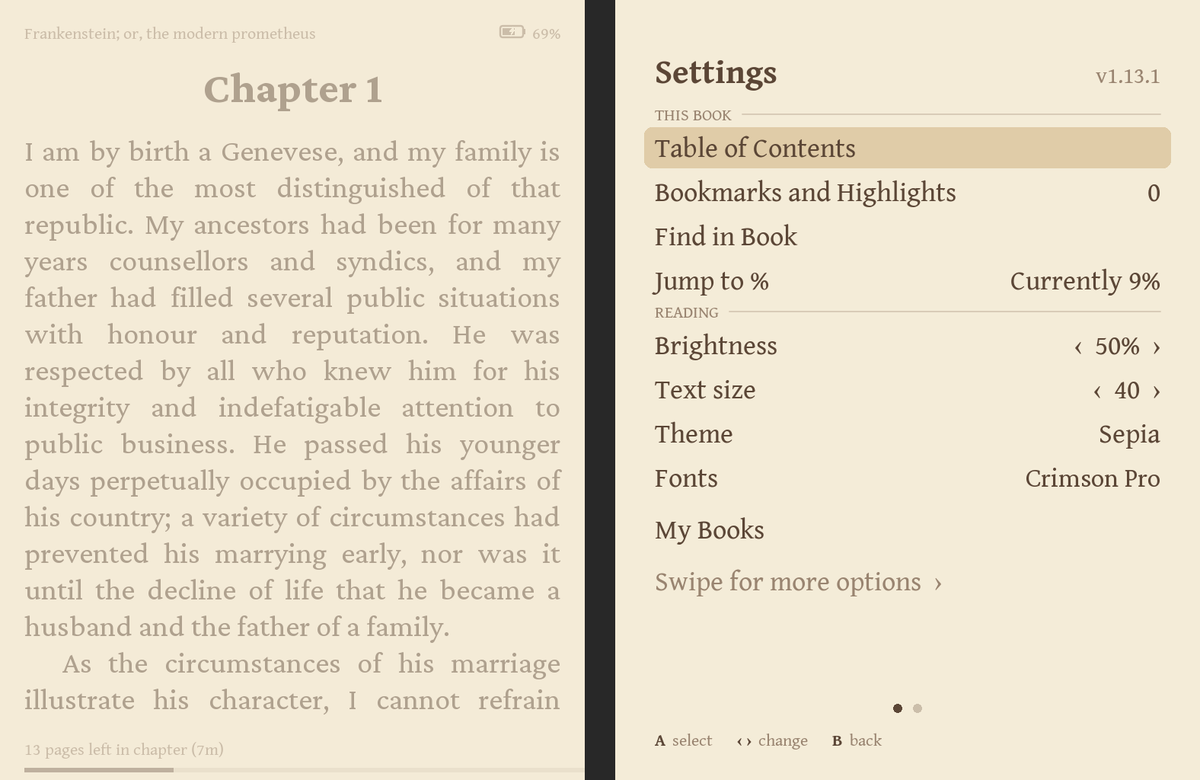
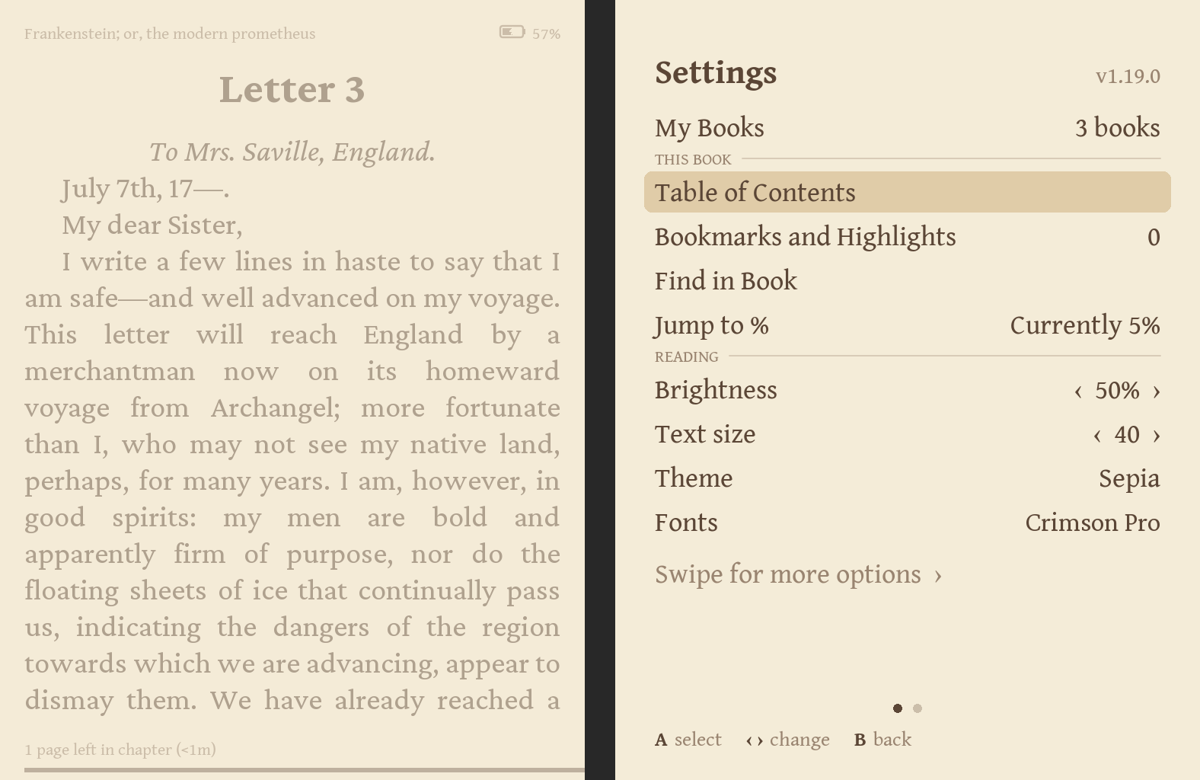
README screenshots retaken for v1.19.0 (My Books, Settings, Themes with the grey page and filters, look-up with a highlight and its buttons); test hook 'covers' waits for covers to load

diff --git a/README.md b/README.md
@@ -294,7 +294,7 @@ last row. Tap **‹** or **›** to change a value, or use the D-pad.
 
 | Settings | Themes |
 |---|---|
-| ![Settings](docs/screenshots/settings.png) | ![Themes, previewing Nord](docs/screenshots/themes.png) |
+| ![Settings](docs/screenshots/settings.png) | ![Themes, previewing Nord, with one of your own tagged Custom](docs/screenshots/themes.png) |
 
 *Screenshots use public-domain books from Project Gutenberg.*
 
@@ -642,7 +642,7 @@ word by word, across both pages; up/down move it line by line on the same
 page, going round from its last line to its first. The definition shows on
 the facing page (A for more of a long entry, B to close).
 
-![Looking up a word](docs/screenshots/lookup.png)
+![Looking up a word, with a highlight above it](docs/screenshots/lookup.png)
 
 English (WordNet) is built in. To add others, copy **StarDict** dictionaries
 (the files KOReader uses: `.ifo`, `.idx`, `.dict` or `.dict.dz`, and `.syn`
